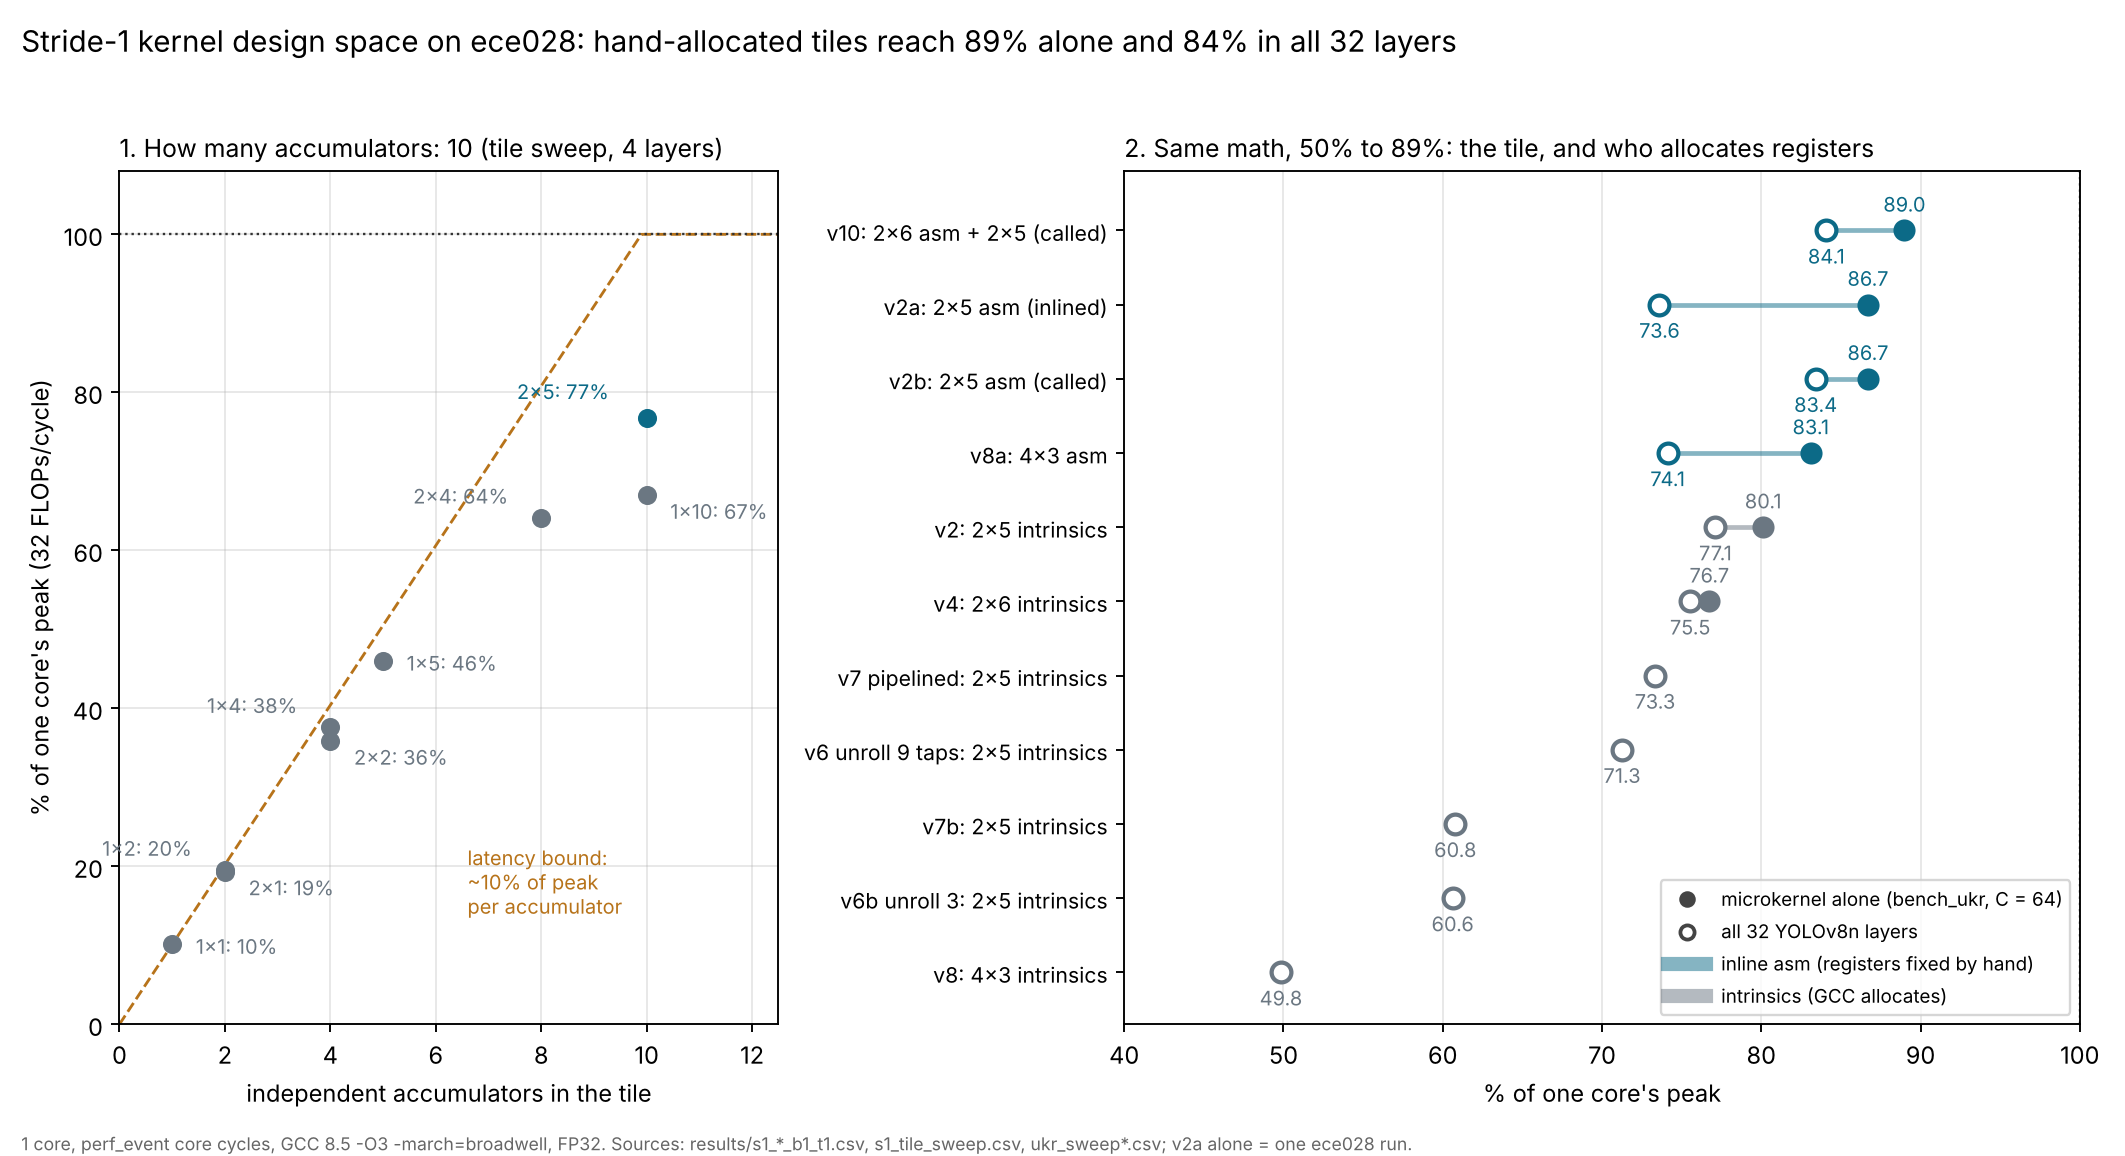
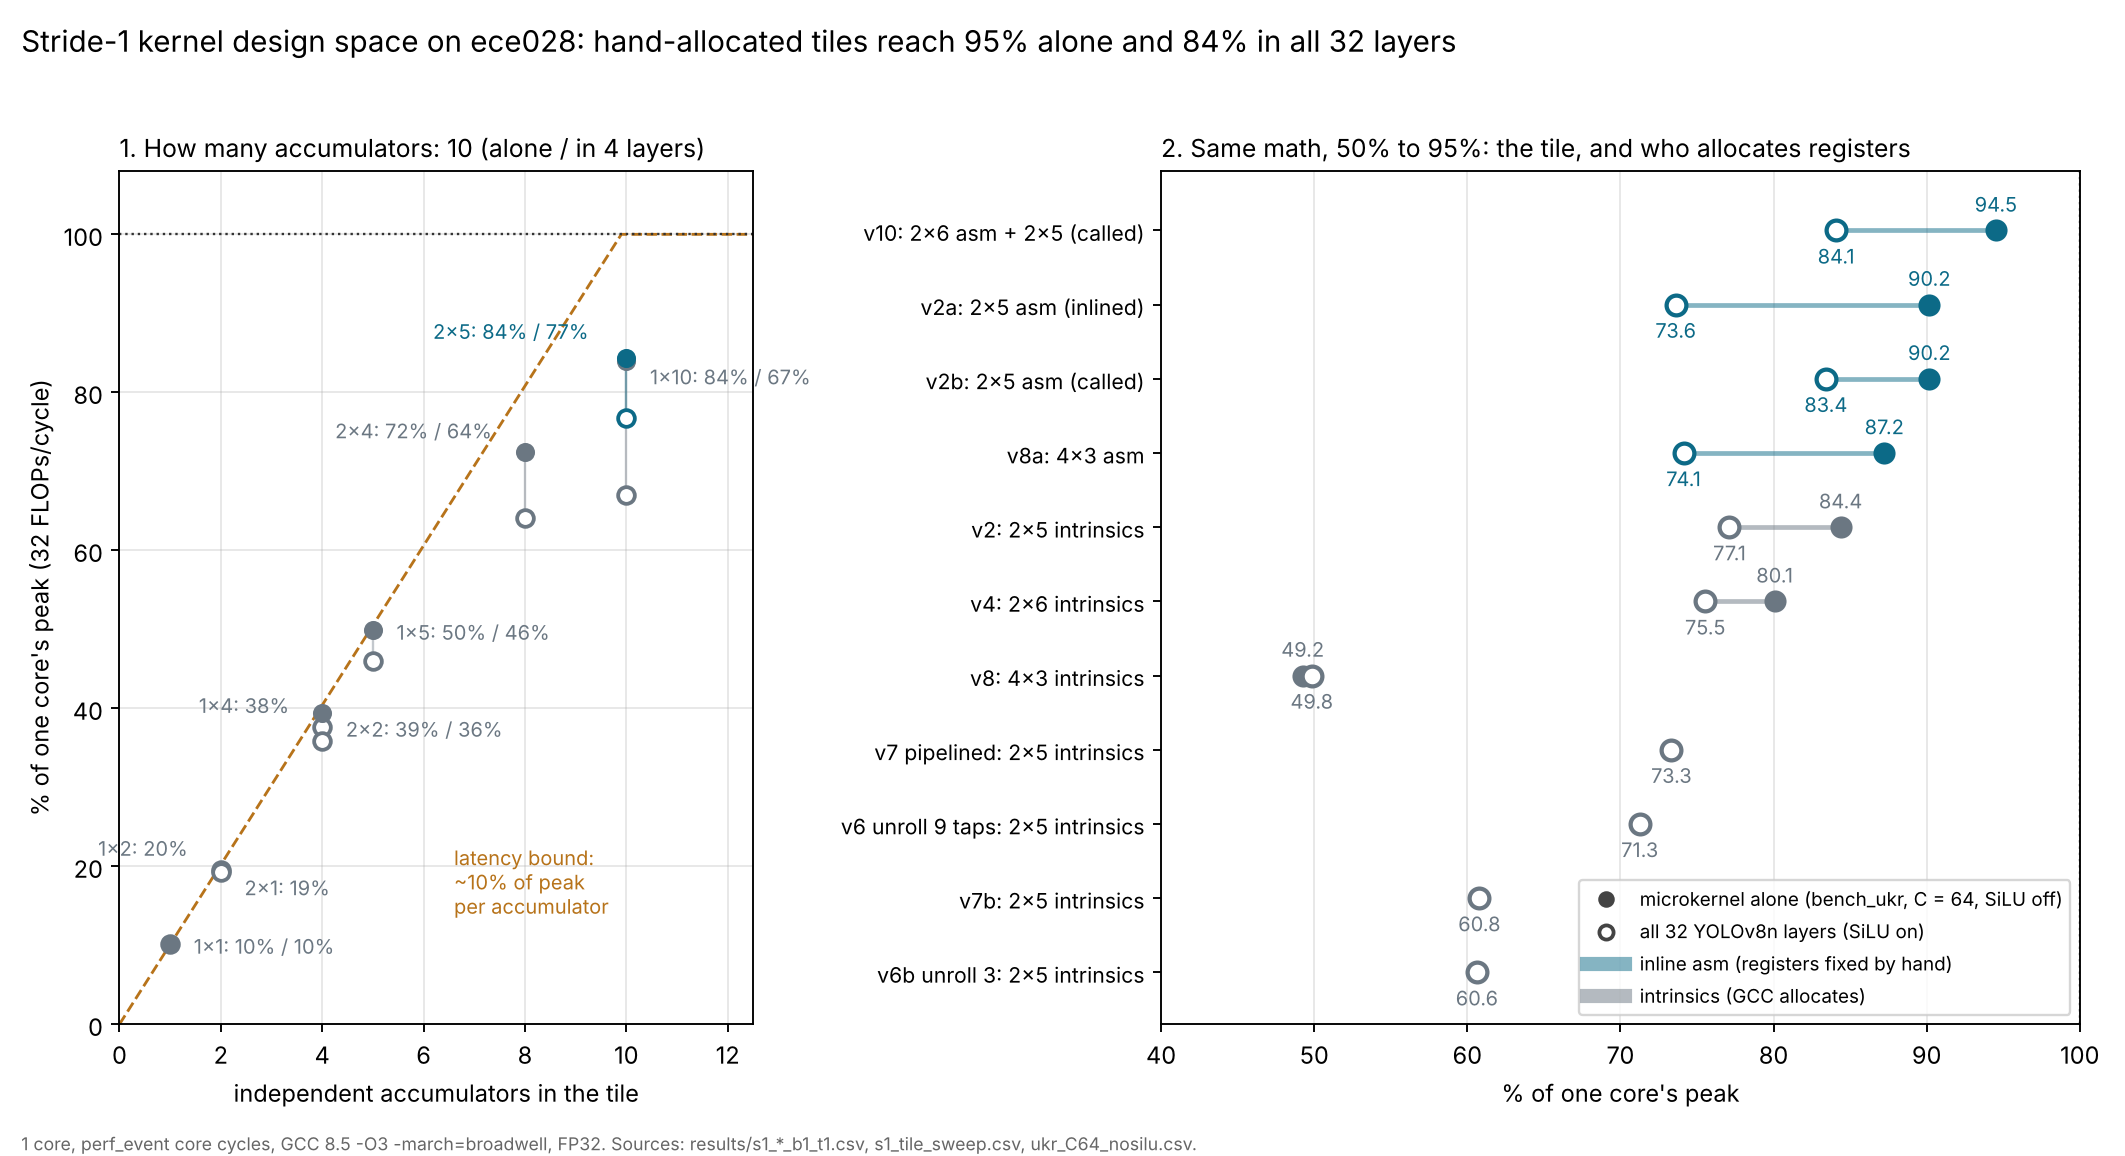
s1: design-space chart uses the SiLU-off C=64 microkernel numbers for 'alone'
Claude-Session: https://claude.ai/code/session_01AeVaHM9UcLNRWUmMTDhqz2

diff --git a/scripts/plot_design_space.py b/scripts/plot_design_space.py
@@ -21,6 +21,7 @@ import matplotlib.pyplot as plt
 
 ap = argparse.ArgumentParser()
 ap.add_argument("-o", "--out", default="results/ukr_design_space.png")
+ap.add_argument("--silu-on", action="store_true", help="isolated points with the fused SiLU (older sweeps) instead of results/ukr_C64_nosilu.csv")
 a = ap.parse_args()
 R = "results"
 
@@ -52,15 +53,25 @@ acc = {"1x1": 1, "1x2": 2, "2x1": 2, "1x4": 4, "2x2": 4, "1x5": 5, "2x4": 8, "1x
 X = {t: i for i, t in enumerate(tiles)}
 
 # (tile, label, impl, in-layer %, isolated %)
+C64 = f"{R}/ukr_C64_nosilu.csv"
+OFF = not a.silu_on and os.path.exists(C64)
+if OFF:
+    iso = lambda tile: iso_pct(C64, tile)
+else:
+    _src = {"2x5": f"{R}/ukr_sweep_2x6.csv", "2x6": f"{R}/ukr_sweep_2x6.csv", "2x6asm": f"{R}/ukr_sweep_2x6.csv",
+            "4x3asm": f"{R}/ukr_sweep.csv"}
+    iso = lambda tile: ISOLATED_EXTRA.get(tile) or (iso_pct(_src[tile], tile) if tile in _src else None)
 pts = [
-    ("2x5", "v2", "intr", layer_pct("s1_v2"), iso_pct(f"{R}/ukr_sweep_2x6.csv", "2x5")),
-    ("2x6", "v4", "intr", layer_pct("s1_v4"), iso_pct(f"{R}/ukr_sweep_2x6.csv", "2x6")),
-    ("4x3", "v8", "intr", layer_pct("s1_v8"), None),
-    ("2x5", "v2a", "asm", layer_pct("s1_v2a"), ISOLATED_EXTRA["2x5asm"]),
-    ("2x6", "v10", "asm", layer_pct("s1_v10"), iso_pct(f"{R}/ukr_sweep_2x6.csv", "2x6asm")),
-    ("2x5", "v2b", "asm", layer_pct("s1_v2b"), ISOLATED_EXTRA["2x5asm"]),
-    ("4x3", "v8a", "asm", layer_pct("s1_v8a"), iso_pct(f"{R}/ukr_sweep.csv", "4x3asm")),
+    ("2x5", "v2", "intr", layer_pct("s1_v2"), iso("2x5")),
+    ("2x6", "v4", "intr", layer_pct("s1_v4"), iso("2x6")),
+    ("4x3", "v8", "intr", layer_pct("s1_v8"), iso("4x3")),
+    ("2x5", "v2a", "asm", layer_pct("s1_v2a"), iso("2x5asm")),
+    ("2x6", "v10", "asm", layer_pct("s1_v10"), iso("2x6asm")),
+    ("2x5", "v2b", "asm", layer_pct("s1_v2b"), iso("2x5asm")),
+    ("4x3", "v8a", "asm", layer_pct("s1_v8a"), iso("4x3asm")),
 ]
+best_alone = max(v for *_, v in pts if v is not None)
+best_layer = max(l for *_, l, v in pts if l is not None)
 lecture = [("v6 unroll 9 taps", layer_pct("s1_v6")), ("v6b unroll 3", layer_pct("s1_v6b")),
            ("v7 pipelined", layer_pct("s1_v7")), ("v7b", layer_pct("s1_v7b"))]
 
@@ -73,15 +84,21 @@ axl.text(6.6, 14, "latency bound:\n~10% of peak\nper accumulator", color=AMBER, 
 lab_off = {"1x2": (-14, 6), "2x1": (10, -10), "1x4": (-14, 6), "2x2": (10, -10), "2x4": (-14, 6), "1x10": (10, -10), "2x5": (-16, 8)}
 for t in ["1x1", "1x2", "2x1", "1x4", "2x2", "1x5", "2x4", "1x10", "2x5"]:
     c = BLUE if t == "2x5" else GREY
-    axl.scatter(acc[t], sweep[t], s=50, color=c, zorder=3)
+    axl.scatter(acc[t], sweep[t], s=50, facecolors="white", edgecolors=c, linewidths=1.6, zorder=3)
+    v = iso(t) if OFF else None
+    if v is not None:
+        axl.scatter(acc[t], v, s=50, color=c, zorder=4)
+        axl.plot([acc[t], acc[t]], [sweep[t], v], color=c, lw=1, alpha=0.4, zorder=2)
+    top = v if v is not None else sweep[t]
     dx, dy = lab_off.get(t, (10, -4))
-    axl.annotate(f"{t}: {sweep[t]:.0f}%", (acc[t], sweep[t]), xytext=(dx, dy), textcoords="offset points",
+    txt = f"{t}: {v:.0f}% / {sweep[t]:.0f}%" if v is not None else f"{t}: {sweep[t]:.0f}%"
+    axl.annotate(txt, (acc[t], top), xytext=(dx, dy), textcoords="offset points",
                  ha="right" if dx < 0 else "left", fontsize=8.5, color=c)
 axl.axhline(100, color="#333", ls=":", lw=1)
 axl.set_xlim(0, 12.5); axl.set_ylim(0, 108)
 axl.set_xlabel("independent accumulators in the tile")
 axl.set_ylabel("% of one core's peak (32 FLOPs/cycle)")
-axl.set_title("1. How many accumulators: 10 (tile sweep, 4 layers)", fontsize=10.5, loc="left")
+axl.set_title("1. How many accumulators: 10" + (" (alone / in 4 layers)" if OFF else " (tile sweep, 4 layers)"), fontsize=10.5, loc="left")
 axl.grid(alpha=0.3)
 
 # ---- right: the design space at >= 10 accumulators, alone vs in the layers
@@ -109,16 +126,16 @@ axr.set_ylim(len(rows) - 0.3, -0.8)
 axr.set_xlim(40, 100); axr.axvline(100, color="#333", ls=":", lw=1)
 axr.set_xlabel("% of one core's peak")
 axr.grid(axis="x", alpha=0.3)
-axr.set_title("2. Same math, 50% to 89%: the tile, and who allocates registers", fontsize=10.5, loc="left")
+axr.set_title(f"2. Same math, {min(l for *_, l, v in pts if l):.0f}% to {best_alone:.0f}%: the tile, and who allocates registers", fontsize=10.5, loc="left")
 from matplotlib.lines import Line2D
-leg = [Line2D([], [], marker="o", ls="", color="#444", label="microkernel alone (bench_ukr, C = 64)"),
-       Line2D([], [], marker="o", ls="", mfc="white", mec="#444", mew=1.6, label="all 32 YOLOv8n layers"),
+leg = [Line2D([], [], marker="o", ls="", color="#444", label="microkernel alone (bench_ukr, C = 64, SiLU " + ("off)" if OFF else "on)")),
+       Line2D([], [], marker="o", ls="", mfc="white", mec="#444", mew=1.6, label="all 32 YOLOv8n layers (SiLU on)"),
        Line2D([], [], color=BLUE, lw=6, alpha=0.5, label="inline asm (registers fixed by hand)"),
        Line2D([], [], color=GREY, lw=6, alpha=0.5, label="intrinsics (GCC allocates)")]
 axr.legend(handles=leg, fontsize=8, loc="lower right", frameon=True)
-fig.suptitle("Stride-1 kernel design space on ece028: hand-allocated tiles reach 89% alone and 84% in all 32 layers",
+fig.suptitle(f"Stride-1 kernel design space on ece028: hand-allocated tiles reach {best_alone:.0f}% alone and {best_layer:.0f}% in all 32 layers",
              fontsize=12.5, x=0.01, ha="left")
-fig.text(0.01, 0.005, "1 core, perf_event core cycles, GCC 8.5 -O3 -march=broadwell, FP32. Sources: results/s1_*_b1_t1.csv, s1_tile_sweep.csv, ukr_sweep*.csv; v2a alone = one ece028 run.",
+fig.text(0.01, 0.005, "1 core, perf_event core cycles, GCC 8.5 -O3 -march=broadwell, FP32. Sources: results/s1_*_b1_t1.csv, s1_tile_sweep.csv, " + ("ukr_C64_nosilu.csv." if OFF else "ukr_sweep*.csv; v2a alone = one ece028 run.") + "",
          fontsize=7.5, color="#666")
 fig.tight_layout(rect=(0, 0.02, 1, 0.96))
 fig.savefig(a.out, dpi=170)
